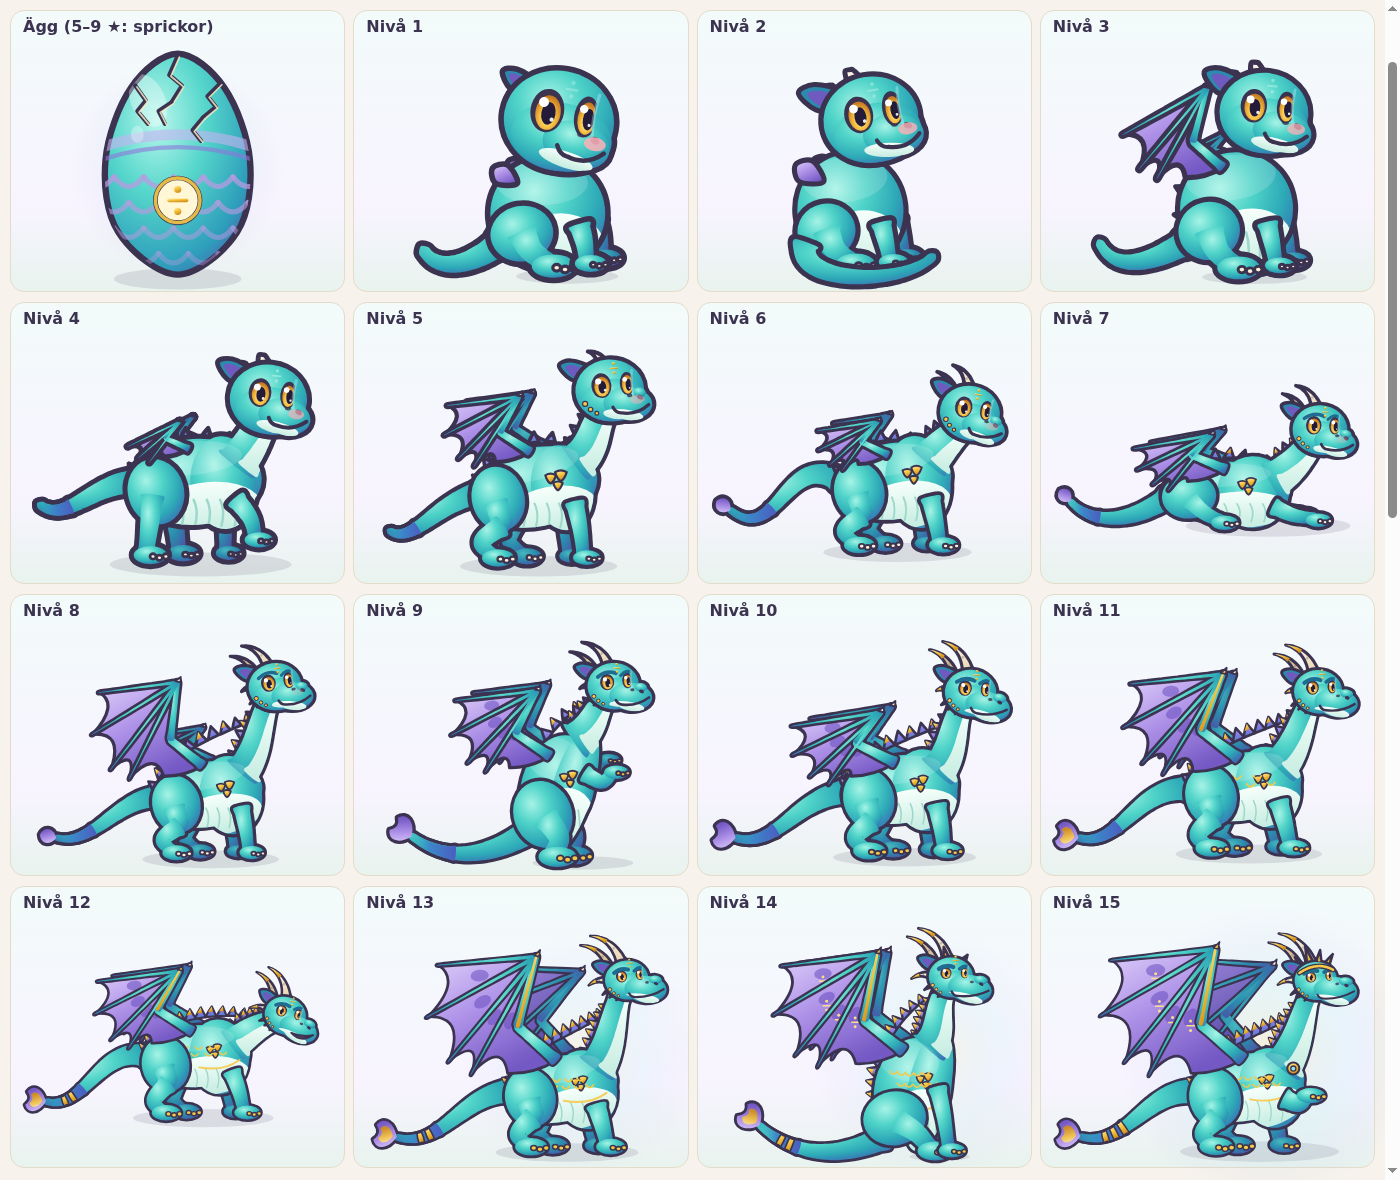
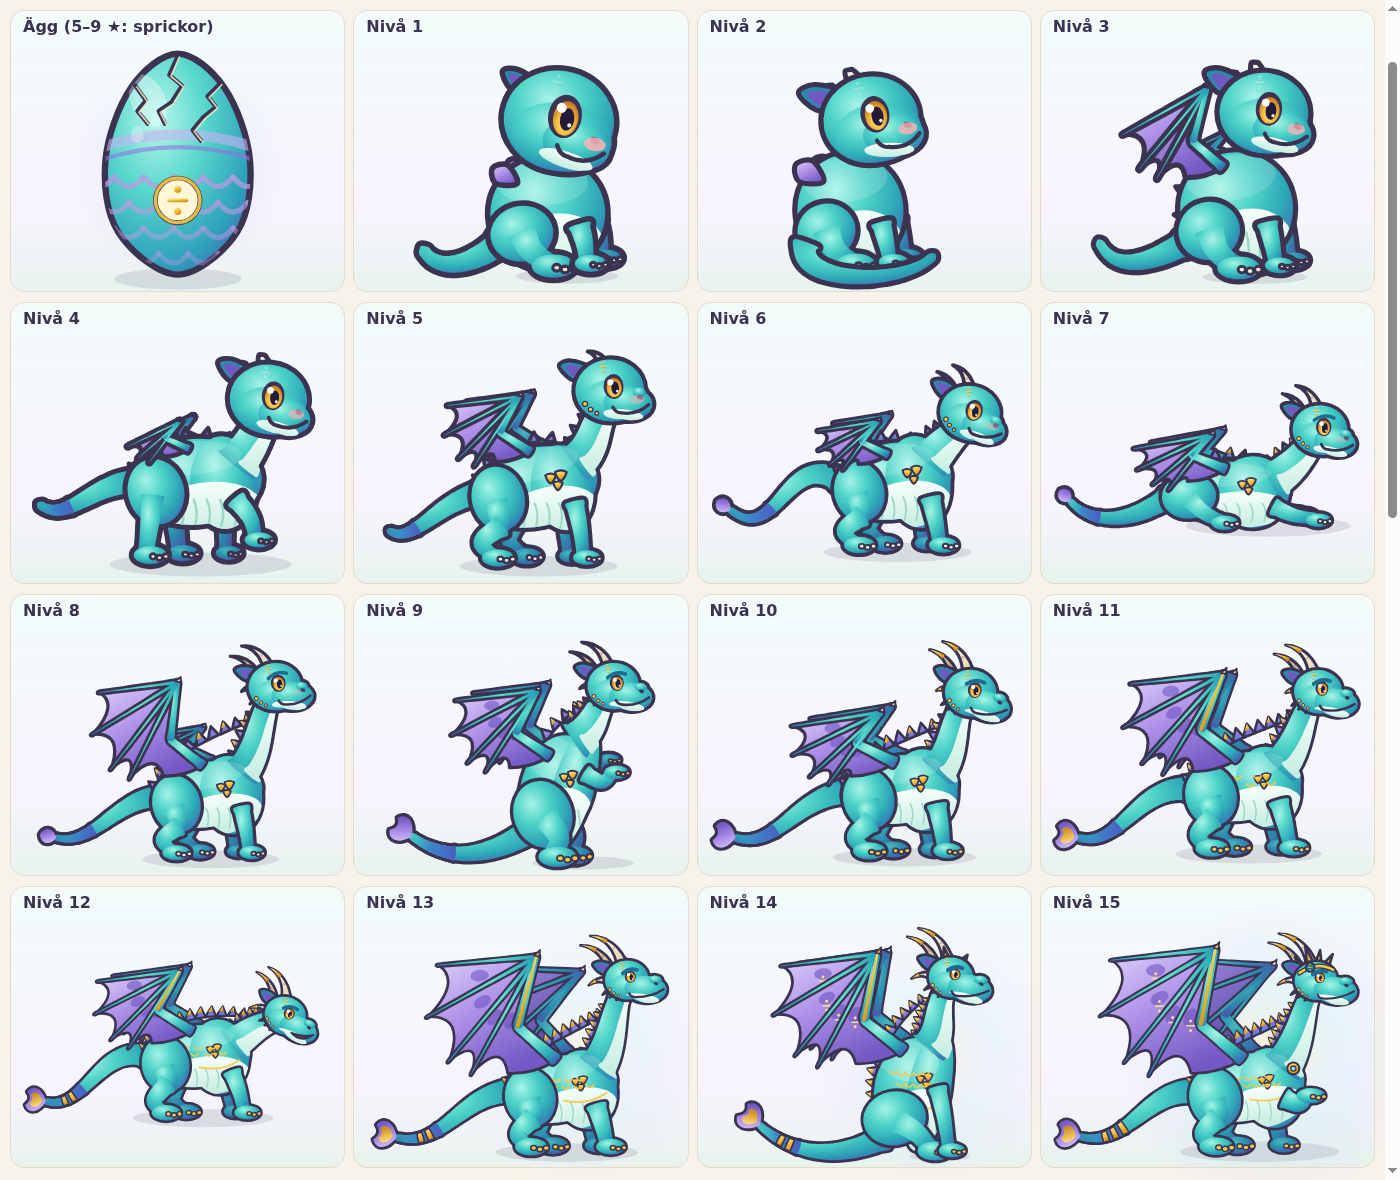
issue #718: draken i profil – bara ett öga, runan flyttad ovanför ögat (sten i diademet på nivå 15), en näsborre; nya skärmdumpar

diff --git a/src/brakresan/art-drake-delar.js b/src/brakresan/art-drake-delar.js
@@ -57,36 +57,22 @@ export const F = (u, id) => `url(#${u}${id})`;
 
 // --- Ansikte ----------------------------------------------------------------
 
-/**
- * Ett öga. far = bortre ögat i trekvartsvyn: förkortat (smalare, lite lägre)
- * och med högerkanten skymd bakom nosryggen, så att det sitter inne i huvudet
- * i stället för ute på konturen. vuxen 0..1 gör ögat mindre/lugnare.
- */
-export function oga(x, y, r, { u, far = false, vuxen = 0, lw = 3 }) {
-  const rx = r * 0.86 * (far ? 0.72 : 1), ry = r * (1.12 - 0.22 * vuxen) * (far ? 0.94 : 1);
-  // Bortre ögat tittar åt samma håll: pupillen förskjuts mot nosryggen.
-  const px = far ? 0.22 : 0.1;
+/** Draken ses i profil: ett öga. vuxen 0..1 gör ögat mindre/lugnare. */
+export function oga(x, y, r, { u, vuxen = 0, lw = 3 }) {
+  const rx = r * 0.86, ry = r * (1.12 - 0.22 * vuxen);
   const brynY = y - ry * 1.05;
-  // Nosryggen (bara bortre ögat): ögat slutar här, en ljus glans markerar ryggen.
-  const kant = x + rx * 0.72;
-  const rygg = `M${r1(kant + 0.3)} ${r1(y - ry * 1.15)} Q${r1(kant - rx * 0.25)} ${r1(y)} ${r1(kant + 0.2)} ${r1(y + ry * 0.95)}`;
   const bryn = vuxen > 0.35
-    ? `<path d="M${r1(x - rx * 1.25)} ${r1(brynY + ry * 0.35)} Q${r1(x)} ${r1(brynY - ry * 0.45)} ${r1(far ? kant + 0.5 : x + rx * 1.3)} ${r1(brynY + ry * (far ? 0.15 : 0.05))}" fill="none" stroke="#1E6C92" stroke-width="${r1(lw * (0.6 + vuxen) * (far ? 0.85 : 1))}" stroke-linecap="round"/>`
+    ? `<path d="M${r1(x - rx * 1.25)} ${r1(brynY + ry * 0.35)} Q${r1(x)} ${r1(brynY - ry * 0.45)} ${r1(x + rx * 1.3)} ${r1(brynY + ry * 0.05)}" fill="none" stroke="#1E6C92" stroke-width="${r1(lw * (0.6 + vuxen))}" stroke-linecap="round"/>`
     : "";
-  const oga =
+  return (
     `<g class="bd-oga" style="transform-origin:${r1(x)}px ${r1(y)}px">` +
     `<ellipse cx="${r1(x)}" cy="${r1(y)}" rx="${r1(rx)}" ry="${r1(ry)}" fill="${O}"/>` +
     `<ellipse cx="${r1(x + rx * 0.06)}" cy="${r1(y + ry * 0.08)}" rx="${r1(rx * 0.76)}" ry="${r1(ry * 0.8)}" fill="${F(u, "i")}"/>` +
-    `<ellipse cx="${r1(x + rx * px)}" cy="${r1(y + ry * 0.12)}" rx="${r1(rx * (0.42 - 0.1 * vuxen) * (far ? 1.1 : 1))}" ry="${r1(ry * 0.52)}" fill="${PAL.pupill}"/>` +
-    `<circle cx="${r1(x - rx * 0.28)}" cy="${r1(y - ry * 0.36)}" r="${r1(rx * (far ? 0.34 : 0.3))}" fill="#fff"/>` +
+    `<ellipse cx="${r1(x + rx * 0.16)}" cy="${r1(y + ry * 0.12)}" rx="${r1(rx * (0.42 - 0.1 * vuxen))}" ry="${r1(ry * 0.52)}" fill="${PAL.pupill}"/>` +
+    `<circle cx="${r1(x - rx * 0.28)}" cy="${r1(y - ry * 0.36)}" r="${r1(rx * 0.3)}" fill="#fff"/>` +
     `<circle cx="${r1(x + rx * 0.34)}" cy="${r1(y + ry * 0.38)}" r="${r1(rx * 0.13)}" fill="#fff" opacity="0.9"/>` +
-    `</g>`;
-  if (!far) return oga + bryn;
-  const klipp = `M${r1(x - rx * 3)} ${r1(y - ry * 3)} L${r1(kant + 0.6)} ${r1(y - ry * 3)} L${r1(kant + 0.6)} ${r1(y - ry * 1.5)} ` +
-    `Q${r1(kant - rx * 0.3)} ${r1(y)} ${r1(kant + 0.4)} ${r1(y + ry * 1.3)} L${r1(kant + 0.4)} ${r1(y + ry * 3)} L${r1(x - rx * 3)} ${r1(y + ry * 3)}Z`;
-  return `<clipPath id="${u}of"><path d="${klipp}"/></clipPath>` +
-    `<g clip-path="url(#${u}of)">${oga}${bryn}</g>` +
-    `<path d="${rygg}" fill="none" stroke="#C9F6FF" stroke-width="${r1(lw * 0.6)}" stroke-linecap="round" opacity="0.35"/>`;
+    `</g>` + bryn
+  );
 }
 
 /** Bråkrunan ÷ (prick–streck–prick). */
@@ -126,7 +112,7 @@ function ora(x, y, e, fill, inner, lw) {
 }
 
 /**
- * Huvudet i lokala koordinater (skallens mitt = 0,0), vänt 3/4 åt höger.
+ * Huvudet i lokala koordinater (skallens mitt = 0,0), i profil åt höger (ett öga).
  * h: { v (vuxenhet 0..1), oron, horn, hornL, horn2, krona, guld, kinder, runa, mun }
  */
 export function huvud(h, u, lw) {
@@ -185,11 +171,10 @@ export function huvud(h, u, lw) {
   // Näsknöl ovanpå nosspetsen (växer fram från ungdom).
   if (v > 0.2) former.push({ f: ell(mx + mrx * 0.5, my - mry * 0.62, 3 + 3 * v, 2.6 + v, 10), fill: F(u, "k") });
   const sil = silhuett(former, lw) + `<clipPath id="${u}hc">${former.map((f) => `<${f.f}/>`).join("")}</clipPath>`;
-  // Ljus nosfläck + ljus haka.
+  // Ljus haka + näsborre (profil: en).
   const nos =
     `<ellipse cx="${r1(mx - 2)}" cy="${r1(my + mry * 0.72)}" rx="${r1(mrx * 0.82)}" ry="${r1(mry * 0.34)}" fill="${F(u, "m")}" transform="rotate(${r1(8 + 6 * v)} ${r1(mx)} ${r1(my)})" clip-path="url(#${u}hc)"/>` +
-    `<ellipse cx="${r1(mx + mrx * 0.52)}" cy="${r1(my - mry * 0.32)}" rx="1.9" ry="1.3" fill="${O}" transform="rotate(25 ${r1(mx + mrx * 0.52)} ${r1(my - mry * 0.32)})"/>` +
-    `<ellipse cx="${r1(mx + mrx * 0.1)}" cy="${r1(my - mry * 0.48)}" rx="1.6" ry="1.1" fill="${O}" opacity="0.8"/>`;
+    `<ellipse cx="${r1(mx + mrx * 0.52)}" cy="${r1(my - mry * 0.32)}" rx="1.9" ry="1.3" fill="${O}" transform="rotate(25 ${r1(mx + mrx * 0.52)} ${r1(my - mry * 0.32)})"/>`;
   const mun = h.mun === "oppen"
     ? `<path d="M${r1(mx - mrx * 0.3)} ${r1(my + mry * 0.42)} Q${r1(mx + mrx * 0.3)} ${r1(my + mry * 1.05)} ${r1(mx + mrx * 0.82)} ${r1(my + mry * 0.18)} Q${r1(mx + mrx * 0.3)} ${r1(my + mry * 0.6)} ${r1(mx - mrx * 0.3)} ${r1(my + mry * 0.42)}Z" fill="#6E3F63" stroke="${O}" stroke-width="${r1(lw * 0.8)}" stroke-linejoin="round"/>`
     : (() => {
@@ -199,20 +184,26 @@ export function huvud(h, u, lw) {
     })();
 
   const eR = 7.4 - 2.2 * v;
-  // Närmre ögat till vänster, bortre ögat mot nosen (förkortat, delvis skymt).
-  fram += oga(-5 + v, -3, eR, { u, vuxen: v, lw });
-  fram += oga(10 + 1.5 * v, -3.2, eR, { u, far: true, vuxen: v, lw });
+  // Profil: ett öga, mitt på skallen strax bakom nosen.
+  fram += oga(2 + 1.5 * v, -2, eR, { u, vuxen: v, lw });
   if (h.kinder) fram += `<ellipse cx="${r1(15 + 3 * v)}" cy="${r1(6.5)}" rx="4.2" ry="2.6" fill="#FFB1B8" opacity="${h.kinder}"/>`;
-  // Bråkrunan i pannan.
-  const rs = 2.6 + 0.4 * v;
+  // Guldbåge (diadem) runt pannan på legendarisk nivå.
+  const diadem = `M${r1(-crx * 0.75)} ${r1(-cry * 0.45)} Q${r1(2)} ${r1(-cry * 1.05)} ${r1(crx * 0.85)} ${r1(-cry * 0.5)}`;
+  if (h.diadem) {
+    fram += `<path d="${diadem}" fill="none" stroke="${O}" stroke-width="${r1(lw * 1.9)}" stroke-linecap="round"/>` +
+      `<path d="${diadem}" fill="none" stroke="${PAL.guld}" stroke-width="${r1(lw * 0.9)}" stroke-linecap="round"/>`;
+  }
+  // Bråkrunan i pannan – med diadem sitter den som en sten mitt på bågen.
+  const rs = 2.3 + 0.4 * v;
   if (h.runa > 0) {
     const guldig = h.runa >= 0.7;
-    fram += runa(3 + v, -12.5 - v, rs, guldig ? F(u, "g") : "#BFF3EA", guldig ? 1 : h.runa, `class="bd-runa"`);
-  }
-  // Guldbåge (diadem) runt pannan på legendarisk nivå.
-  if (h.diadem) {
-    fram += `<path d="M${r1(-crx * 0.75)} ${r1(-cry * 0.45)} Q${r1(2)} ${r1(-cry * 1.05)} ${r1(crx * 0.85)} ${r1(-cry * 0.5)}" fill="none" stroke="${O}" stroke-width="${r1(lw * 1.9)}" stroke-linecap="round"/>` +
-      `<path d="M${r1(-crx * 0.75)} ${r1(-cry * 0.45)} Q${r1(2)} ${r1(-cry * 1.05)} ${r1(crx * 0.85)} ${r1(-cry * 0.5)}" fill="none" stroke="${PAL.guld}" stroke-width="${r1(lw * 0.9)}" stroke-linecap="round"/>`;
+    let rx = -3, ry = -cry * 0.76;
+    if (h.diadem) {
+      rx = -4;
+      ry = -cry * 0.72;
+      fram += `<circle cx="${r1(rx)}" cy="${r1(ry)}" r="${r1(rs * 1.45)}" fill="#1E6C92" stroke="${O}" stroke-width="${r1(lw * 0.7)}"/>`;
+    }
+    fram += runa(rx, ry, rs * (h.diadem ? 0.85 : 1), guldig ? F(u, "g") : "#BFF3EA", guldig ? 1 : h.runa, `class="bd-runa"`);
   }
   // Fina guldfjäll på kinden från nivå 5.
   if (h.guld >= 1) {
